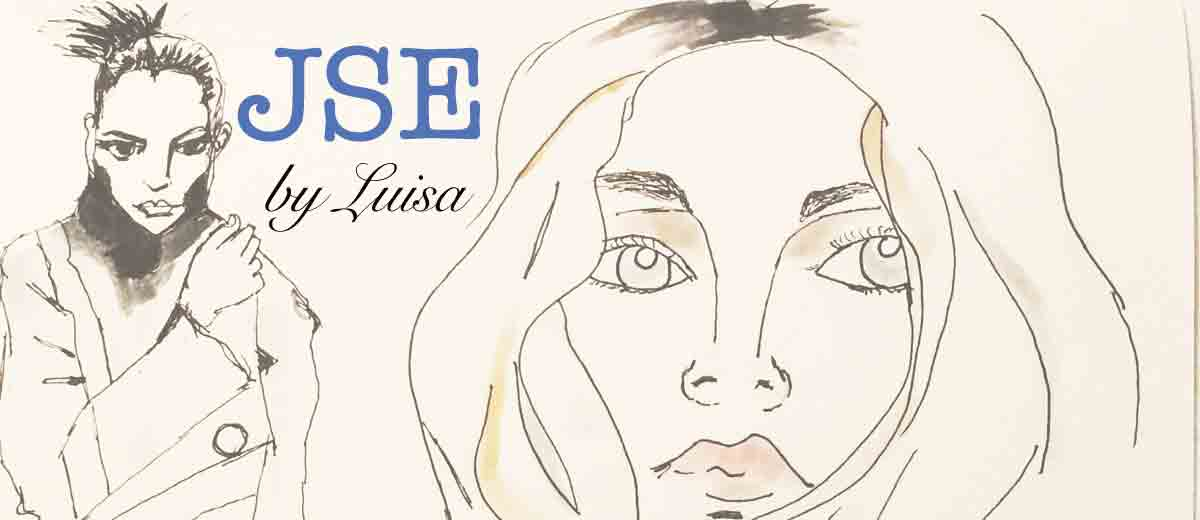
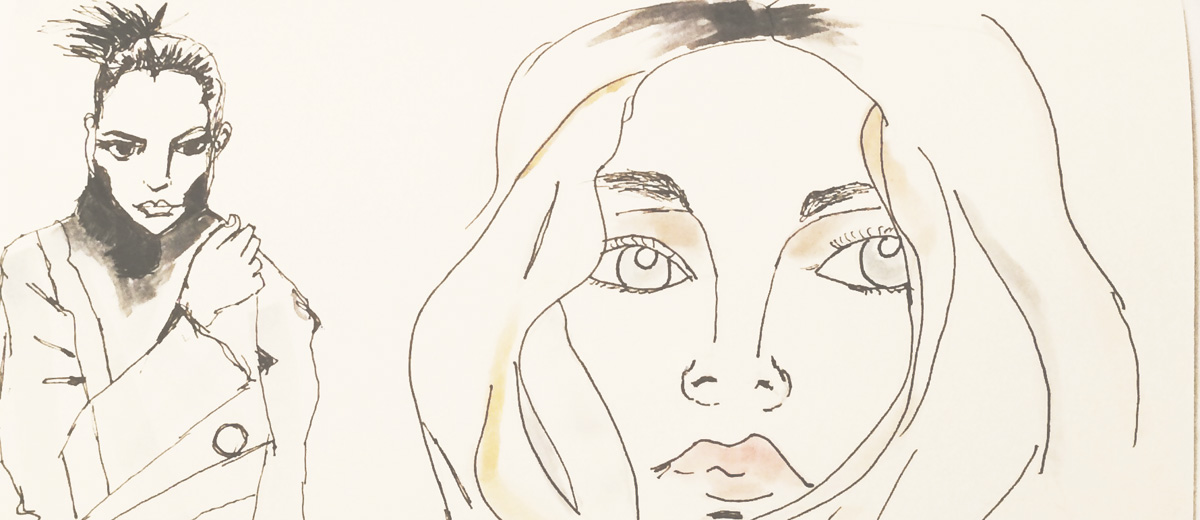
designed home page

diff --git a/assets/css/main.css b/assets/css/main.css
@@ -91,6 +91,34 @@ ul.foot li {
 
 /* front page images */
 
+.mainimg {
+	height: 520px;
+	background-image: url(../img/JSE.jpg);
+	background-repeat: no-repeat;
+	background-position: top ;
+ 	 -webkit-background-size: cover;
+  	-moz-background-size: cover;
+  	-o-background-size: cover;
+  	background-size: cover;
+  	border: 3px dotted #e5e5e5;
+	box-shadow: inset 0 -1px 0 0 #e5e5e5, inset 0 1px 0 0 #e5e5e5, 0 1px 0 0 #e5e5e5, 0 -1px 0 0 #e5e5e5;
+	margin-bottom: 1px;
+}
+
+
+.legende {
+
+	position: absolute;
+	bottom: 50px;
+	left:50px;
+	font-family: 'Playfair' Serif;
+	font-size: 2.3em;
+	color: #fff;
+	background-color: rgba(245, 172, 148, 0.5);
+	padding: 5px;
+
+
+}
 .illustration {
 
 	padding: 5px;

diff --git a/_layouts/home.html b/_layouts/home.html
@@ -1,11 +1,43 @@
 ---
-Layout: default
+
 ---
 
 {% include head.html %}
 
+<div class="row">
+	
+	<div class="small-12 columns large-12 columns mainimg">
+			
+			<div class="legende">
+
+			This is a website developed by Luisa.
+			</div>
+
+
+
+	</div>
+
+
+</div>
 
 <div class="row">
+	
+	<div class="small-4 large-4 columns">
+		
+		<h3>ARTICLES</h3>
+
+	</div>
+	<div class="small-4 large-4 columns">
+		<h3>ILLUSTRATION</h3>
+	</div>
+	<div class="small-4 large-4 columns">
+		 <h3>UPCOMING BOOK</h3>
+
+	</div>
+
+</div>
+
+<!--<div class="row">
 	
 	<div class="small-3 columns ">
 
@@ -25,6 +57,6 @@ Layout: default
 
 
 
-</div>
+</div> -->
 
 {% include foot.html %}

diff --git a/_includes/head.html b/_includes/head.html
@@ -21,7 +21,7 @@
 
       <h1 class="title"> <a href="{{ site.baseurl }}">{{ site.name }}</a>  <br>
       <small class="subtitre"> art, thought, time.</small></h1>
-      <hr/>
+      
     </div>
   </div>
 

diff --git a/blog/index.html b/blog/index.html
@@ -1,6 +1,6 @@
 ---
 layout: default
-title: Home
+title: Blog
 ---
 
 

diff --git a/index.html b/index.html
@@ -1,5 +1,5 @@
 ---
-layout: default
+layout: home
 title: Home
 ---
 
